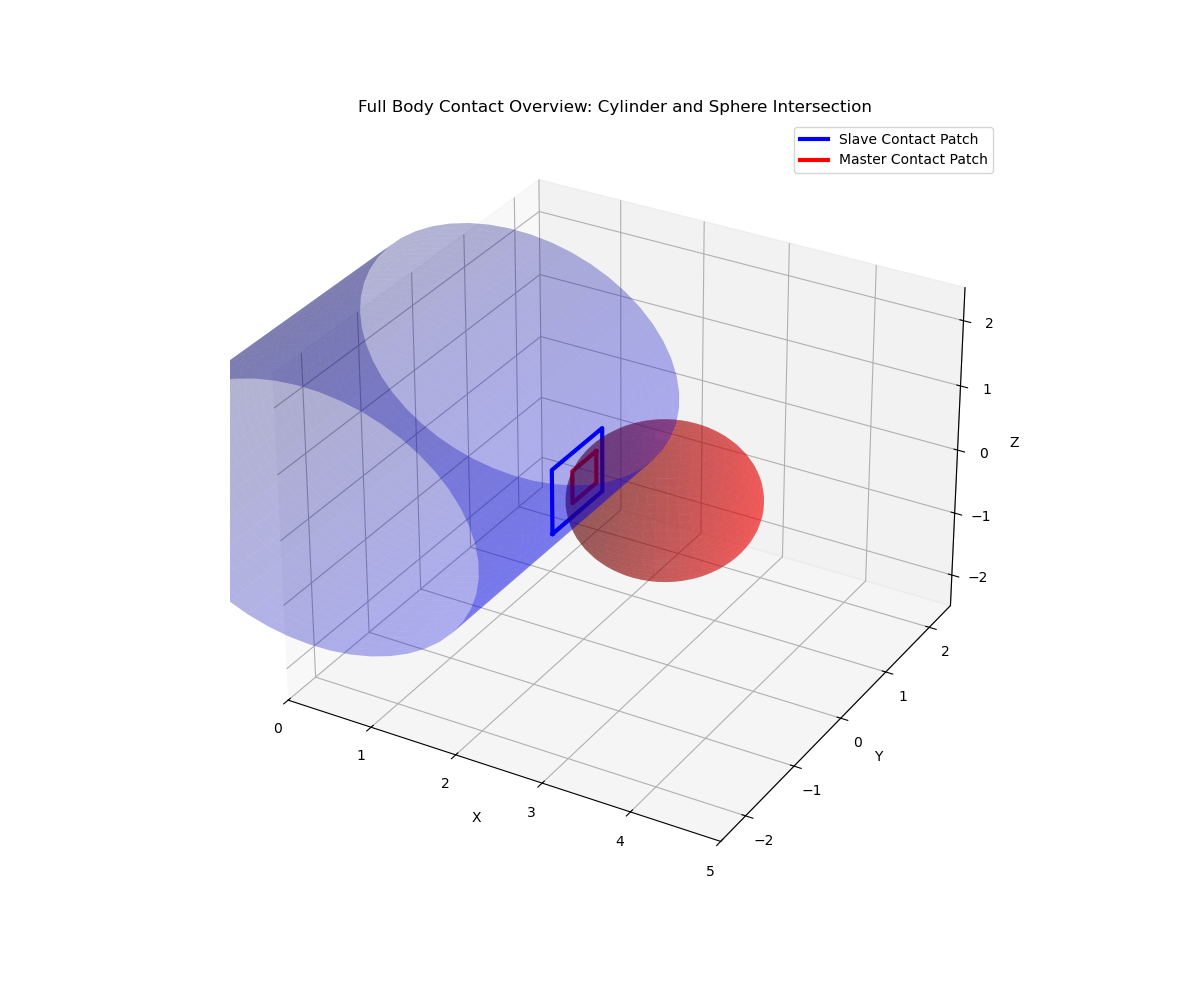
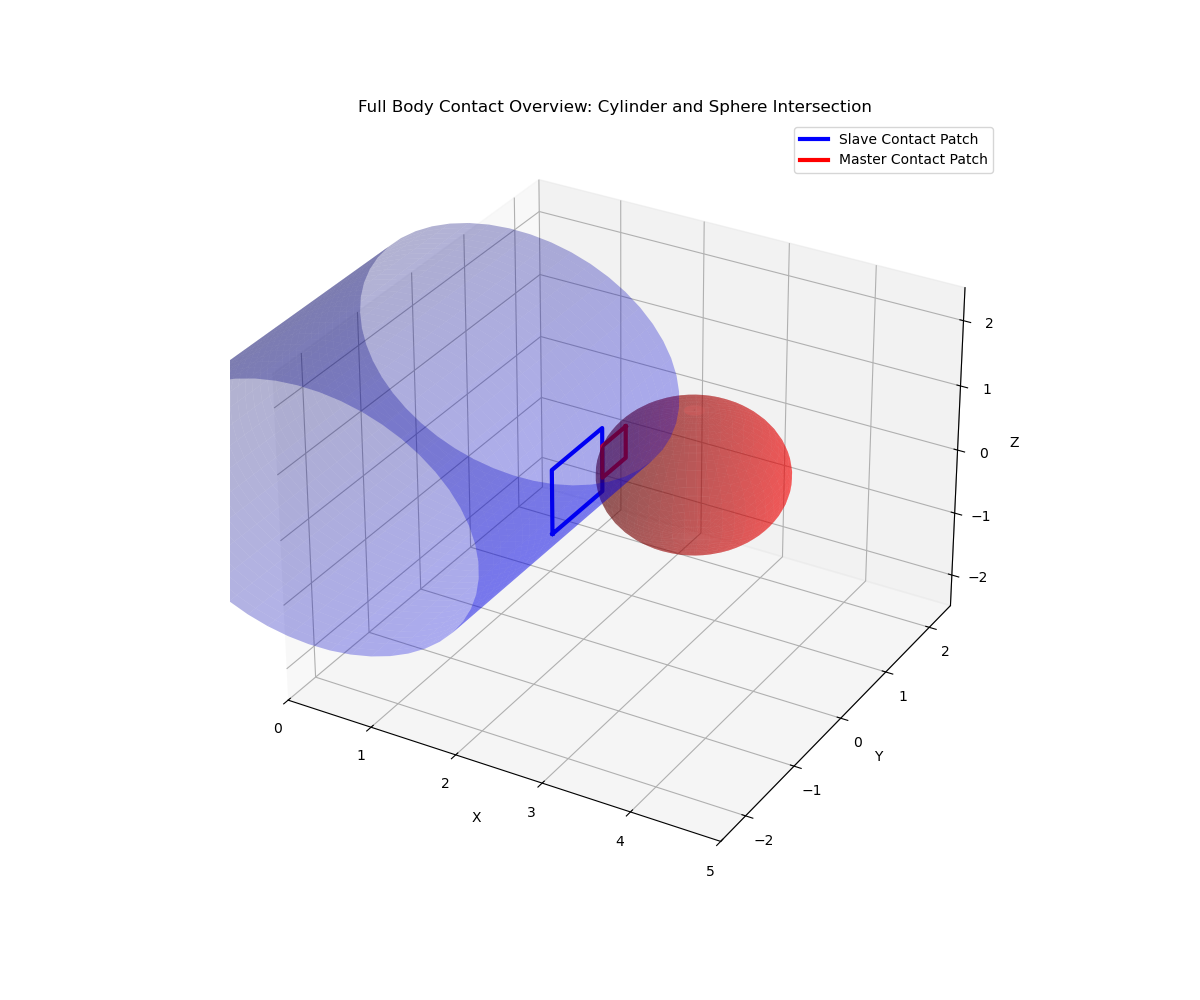
Updated cylinder_sphere.py to show partial contact intersection

Changed region(s): [[0.4625, 0.372, 0.6783, 0.589]]

diff --git a/testfiles/mortar_tests/test3_mortar_intersection/cylinder_sphere.py b/testfiles/mortar_tests/test3_mortar_intersection/cylinder_sphere.py
@@ -34,8 +34,10 @@ def test_curved_cylinder_sphere_projection():
     # y = c_y + r * sin(theta) * sin(phi)
     # z = c_z + r * cos(theta)
     # Let's generate a patch facing the cylinder (facing -X direction: phi = pi)
+    # We shift c_sphere by +0.6 in the Y direction so that the master facet
+    # only partially overlaps (about 1/3) with the slave cylinder patch.
     r_sphere = 1.0
-    c_sphere = np.array([2.9, 0.1, 0.0])
+    c_sphere = np.array([2.9, 0.7, 0.0])
     
     # We choose four points around theta = pi/2, phi = pi
     d_theta = 0.25
